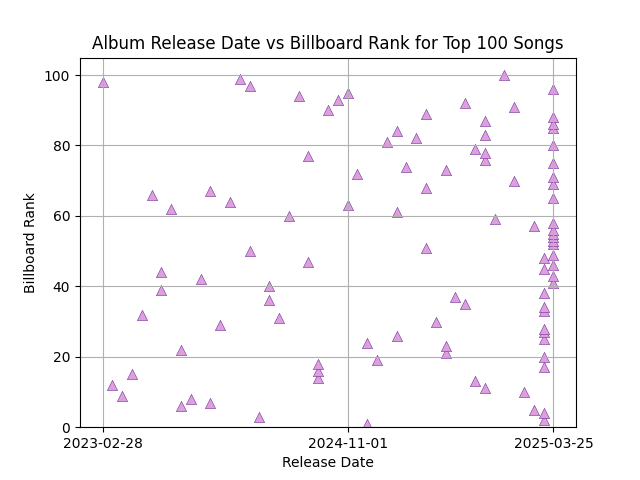
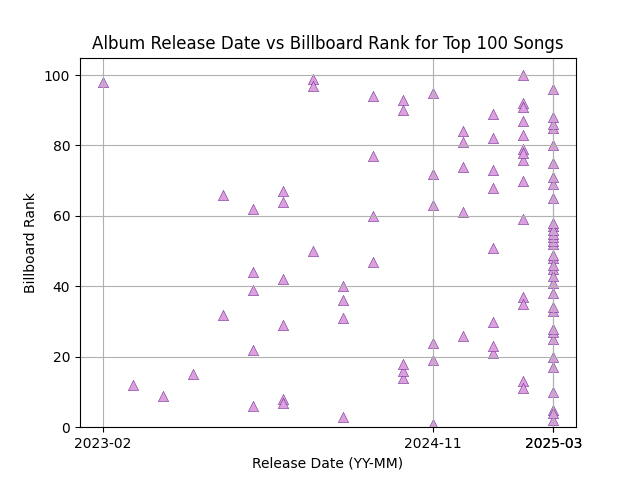
different labeling?

diff --git a/visuals.py b/visuals.py
@@ -91,8 +91,9 @@ def graph_scatter_album_release_vs_rank(cur):
     result = cur.fetchall()
     # process results
     for row in result:
-        d = row[0]
+        d = row[0][:7]
         r = row[1]
+        y = d[0:4]
 
         releaseDate.append(d)
         rank.append(r)
@@ -103,10 +104,13 @@ def graph_scatter_album_release_vs_rank(cur):
     ax.scatter(releaseDate, rank, marker='^', s=55, facecolors='plum', edgecolors='indigo', linewidths=0.3)
     
     # start at origin
+    labels = []
+    for i in range(0, len(releaseDate), len(releaseDate) // 3):
+        labels.append(releaseDate[i])
     ax.set_ylim(bottom=0)
-    ax.set_xticks([min(releaseDate), (releaseDate[len(releaseDate) // 3]), max(releaseDate)])
+    ax.set_xticks(labels)
     # label everything
-    ax.set_xlabel('Release Date')
+    ax.set_xlabel('Release Date (YY-MM)')
     ax.set_ylabel('Billboard Rank')
     ax.set_title('Album Release Date vs Billboard Rank for Top 100 Songs')
     ax.grid()
@@ -228,7 +232,7 @@ def graph_pie_artist_popularity_sum(cur):
 if __name__ == "__main__":
     cur, conn = connect_to_music_data()
     # graph_scatter_rank_vs_popularity(cur)
-    # graph_scatter_album_release_vs_rank(cur) ## TODO -- complete labeling
+    graph_scatter_album_release_vs_rank(cur) ## TODO -- complete labeling
     # graph__bar_top_artists_by_song_count(cur)
     # graph_pie_artist_popularity_sum(cur)
     conn.close()
